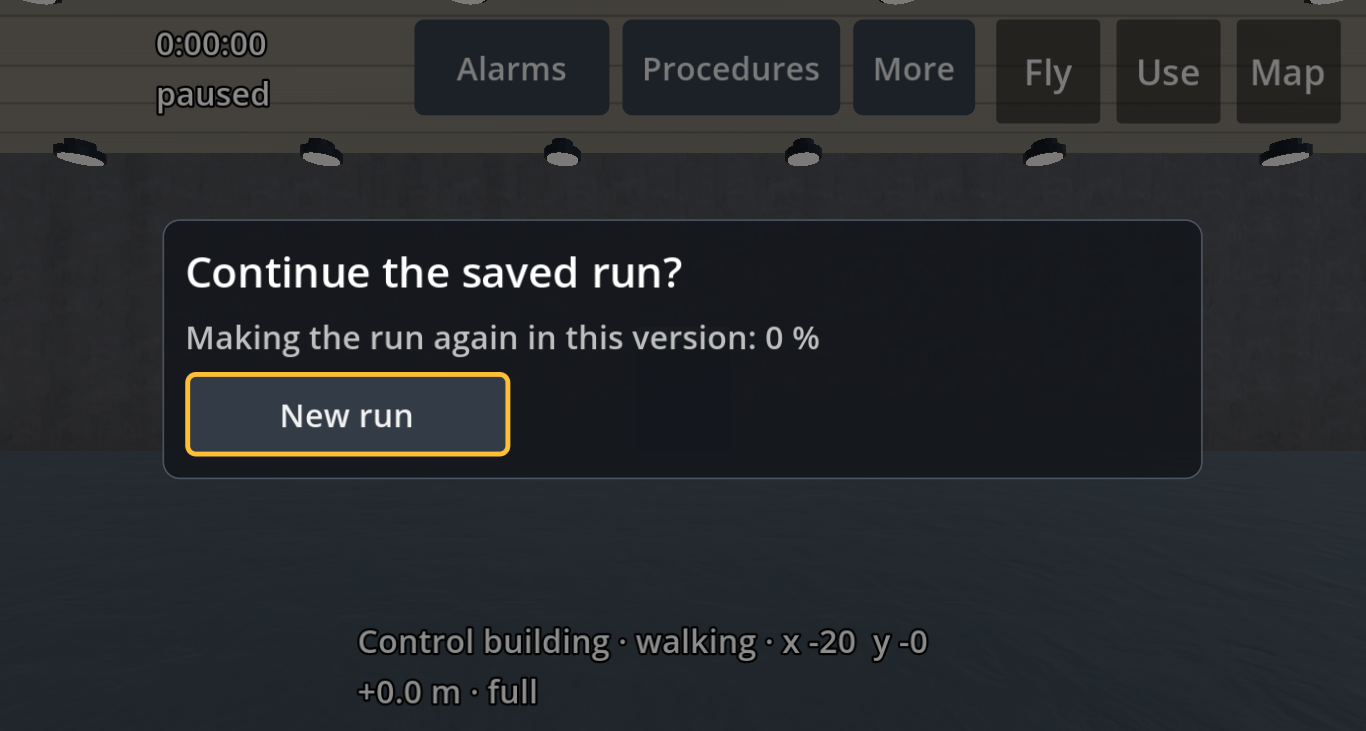
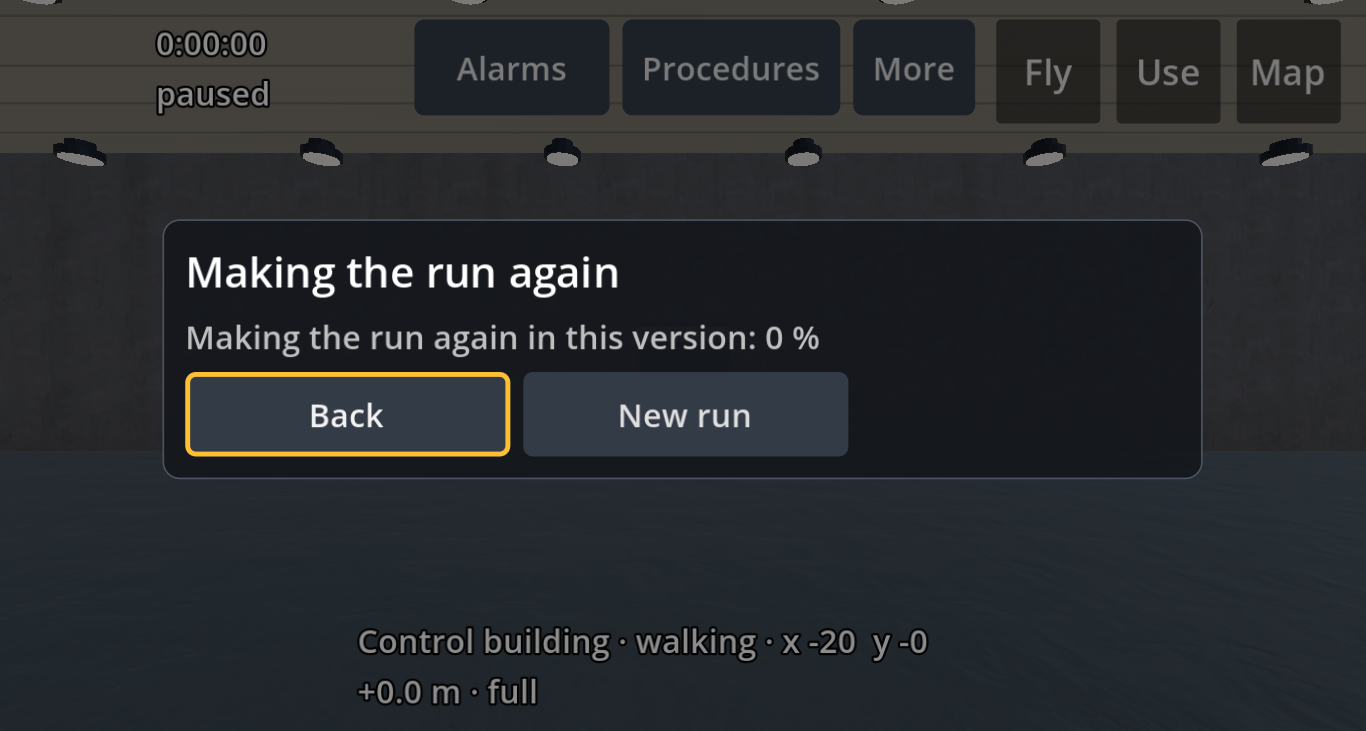
UX evidence for PR #471, round 3

Changed region(s): [[0.369, 0.5116, 0.6457, 0.632], [0.123, 0.3311, 0.4919, 0.4213], [0.1845, 0.5417, 0.3075, 0.6019]]

diff --git a/MANIFEST.md b/MANIFEST.md
@@ -1,40 +1,40 @@
-# UX evidence for PR #471 (issue #447), round 2
+# UX evidence for PR #471 (issue #447), round 3
 
-Synthetic only: Walkdown Plant's invented plant. Made at branch commit a920be82a418bbbc405a72dddb11c7eab0011f56 by `apps/plant3d/tests/save_offer_shots.gd` under `tools/plant3d/bench/offscreen.sh` (headless mutter), Linux, Vulkan (Iris Xe), the switch forced on/off by the script.
+Synthetic only: Walkdown Plant's invented plant. Made at branch commit 849642afc813153c98a2740f55777f25421565c3 by `apps/plant3d/tests/save_offer_shots.gd` under `tools/plant3d/bench/offscreen.sh` (headless mutter), Linux, Vulkan (Iris Xe), the switch forced on/off by the script.
 Fixture: tests/fixtures/run-0.3.0.save sha256 1b7cded093fcd3f1db474810e4030492d8294d53f0d95db7d7c49707f0a00840 (written by plant-v0.3.0's own autosave, tools/plant3d/old_saves/).
 
-- `before-main/`: the same fixture on origin/main's offer code (the released baseline: autosave.gd and run_save.gd unchanged from main in that checkout), 1600x900: the panel runs off the screen (fixed here, always on).
-- `1600x900/` (100 %), `1366x768-ui200/` (UI size 200 %), `2220x1080-phone/` (phone layout): off-old-release (switch off), on-old-release-offer, on-old-release-making-again (progress line, slice forced small; New run holds the focus Continue had), on-old-release-continued, on-cannot-continue, on-made-again-refused (made again, then refused: New run focused), on-copy-aside-failed (Replace it focused), on-own-save, on-damaged.
-- Not made: the accessibility tree (plant_a5.py under a headless GNOME session; not run, memory budget).
+- `before-main/`: the fixture on origin/main's offer code (released baseline), 1600x900.
+- `1600x900/` (100 %), `1366x768-ui200/` (UI size 200 %), `2220x1080-phone/` (phone layout): off-old-release (switch off), on-old-release-offer, on-old-release-making-again (progress, Back focused), on-old-release-continued, on-cannot-continue, on-came-out-differently (an operated code this plant hasn't: listed before anything is replaced), on-copy-aside-failed, on-own-save, on-damaged.
+- Not made: the accessibility tree (plant_a5.py, headless GNOME session; memory budget).
 
 ## sha256
 ```
 a664a477fc91fe8212fe52d5bdce04f28699cf7aa39b7842421ca259dc2e7470  ./1366x768-ui200/desk_ui2_off-old-release.png
+fb84c9ce08607cf3a3d60dea9199d45d580e71afbfaaa763dcb9466e52af9a75  ./1366x768-ui200/desk_ui2_on-came-out-differently.png
 5504d27c82e06e9035d7c9ce3186daa22e40cc74f797c7398375cddb4448481a  ./1366x768-ui200/desk_ui2_on-cannot-continue.png
 7fa6a8589ebd8f0512dc4b0cfa243f5f0f0192f40f13c272bcdd526e0763bfb6  ./1366x768-ui200/desk_ui2_on-copy-aside-failed.png
 c1a7e7edb72d48b7425efbf8e81c17387e3252931298fc6cf0bf8e550f66b39b  ./1366x768-ui200/desk_ui2_on-damaged.png
-1cf129fe4c4c57d2434eb8b958217fab0718acd11f79001582f97b1e217c7813  ./1366x768-ui200/desk_ui2_on-made-again-refused.png
 3f9b6d4fc3c7fbce06bcb3e894771d43c6c1c29e4637155ecee2ad8d35a6a31e  ./1366x768-ui200/desk_ui2_on-old-release-continued.png
-1fecdede7c05ed7cc68393693e6d20adb79abe6770c066146a603895d6963dc0  ./1366x768-ui200/desk_ui2_on-old-release-making-again.png
+751eb04a588d237faba27ed83b174153e01f81e58bbe3f9f74ec43ee138ea42e  ./1366x768-ui200/desk_ui2_on-old-release-making-again.png
 5fab93d59a91dee11749260ca639bc305d31c98809d34ab67879ea221123c818  ./1366x768-ui200/desk_ui2_on-old-release-offer.png
-5d7e41943128fb9f3dc391ed06ba9ddc26a54012e2f45e0b32a9022f873dd6c5  ./1366x768-ui200/desk_ui2_on-own-save.png
+07054f9aa58586c52290e299f786160fa8543786c1447537dcdf074a32f8f960  ./1366x768-ui200/desk_ui2_on-own-save.png
 01b9b11a242548b9e05b5edbc063c7d6906805cc4a1753d13bc3dc96f655685f  ./1600x900/desk_uidefault_off-old-release.png
+a663c52ceedeb5653ff6f5afba3237b6be8bc873e98f6ffce2cc3dea2b966d5d  ./1600x900/desk_uidefault_on-came-out-differently.png
 13cc4cc50f643a93ae5406512bca269789e4ffe832c947e508652908cfc3d594  ./1600x900/desk_uidefault_on-cannot-continue.png
 2212f829909905bb52d9281c8b37b753fa8013f1a5fadd07be948512f9df0921  ./1600x900/desk_uidefault_on-copy-aside-failed.png
 b19bb6cc6d8c00e60efcc6205be77b8aa2fa3218102fcc49f53ba04d73de63f9  ./1600x900/desk_uidefault_on-damaged.png
-8e2393387611a1bdf1b0fc9fe79e8a17d57b57ede294a2415916ad03908e6934  ./1600x900/desk_uidefault_on-made-again-refused.png
 8b3ae5ea46ddecacdd3390e93b7fbda628c684dbc4cf33bc9a9e966985b27fee  ./1600x900/desk_uidefault_on-old-release-continued.png
-de97e74da8adbdc132d77ba03f2ca7a44927b137a07359fd69969d0015952c8a  ./1600x900/desk_uidefault_on-old-release-making-again.png
+19ccfd6dcdfcd6b505580128a3cd501ae255522dca1a5eed1c22383b7e0ed2e8  ./1600x900/desk_uidefault_on-old-release-making-again.png
 d9d6f8ffaa4d35136a7e197017a6af7740480c4959a74afccf12e331f365fc0b  ./1600x900/desk_uidefault_on-old-release-offer.png
-fbbbcbfcdf079114aed1d40acb61c658f0939f7c4ef00ce22092aa0c58a15db7  ./1600x900/desk_uidefault_on-own-save.png
+8171cd8afcc767315bfe862644f66d91d21cb53f7bffd3e5954e0c7a47b5465e  ./1600x900/desk_uidefault_on-own-save.png
 2d35e4b320be8234ba96adec1020d75b4e173cf027e67cf5a8ad60d798806419  ./2220x1080-phone/phone_uidefault_off-old-release.png
+b16d71f077d18f3630a7f7b0c80c2c5267db6343e71f2c25884b53cb0a4b2da3  ./2220x1080-phone/phone_uidefault_on-came-out-differently.png
 89295fb66d06877e562f4509350da28344e5e1fc00797f36d519c293d354b38f  ./2220x1080-phone/phone_uidefault_on-cannot-continue.png
 edc10d3b658bc7265d3ba8057f915319271a00f0b55bacbd5969162c948e162c  ./2220x1080-phone/phone_uidefault_on-copy-aside-failed.png
 38fc5bf60406948c29d20b8ac032e83949830dc98eecdb77b0d762cce2a62e13  ./2220x1080-phone/phone_uidefault_on-damaged.png
-d58002a1aa83b455eee7fe82b7672dda670831cc3199322821d40185d4f95bf5  ./2220x1080-phone/phone_uidefault_on-made-again-refused.png
 9d04f6597c7481a9bbaf70bba4e2edb99a8fbf8189308a650d818602238988bb  ./2220x1080-phone/phone_uidefault_on-old-release-continued.png
-fefdb9188733745bc84af890e64af9ff626423690bdc95a35e6e399308d0f278  ./2220x1080-phone/phone_uidefault_on-old-release-making-again.png
+daafe1679fbe8ae8ccdf94a2153db7c4bc71090412cadd165a9ba104f04b47dc  ./2220x1080-phone/phone_uidefault_on-old-release-making-again.png
 8bfaaf33759c5e031f9073a5bf77ec1ba6e530d723a81f5a44bfd8a792e4006e  ./2220x1080-phone/phone_uidefault_on-old-release-offer.png
-7223f989b5eae4cded4fdc09be2b198683419a552357683470b2505f9cd4d8da  ./2220x1080-phone/phone_uidefault_on-own-save.png
+85b883a6b8580836b5d2e7abf0c1259d1064dc56026696d037ff9fea43e2051d  ./2220x1080-phone/phone_uidefault_on-own-save.png
 f627948181c3ab8d59c9b9b9347fccbc229485f05cec9a2e53d1bbf8d646523c  ./before-main/desk_uidefault_main-old-release.png
 ```
